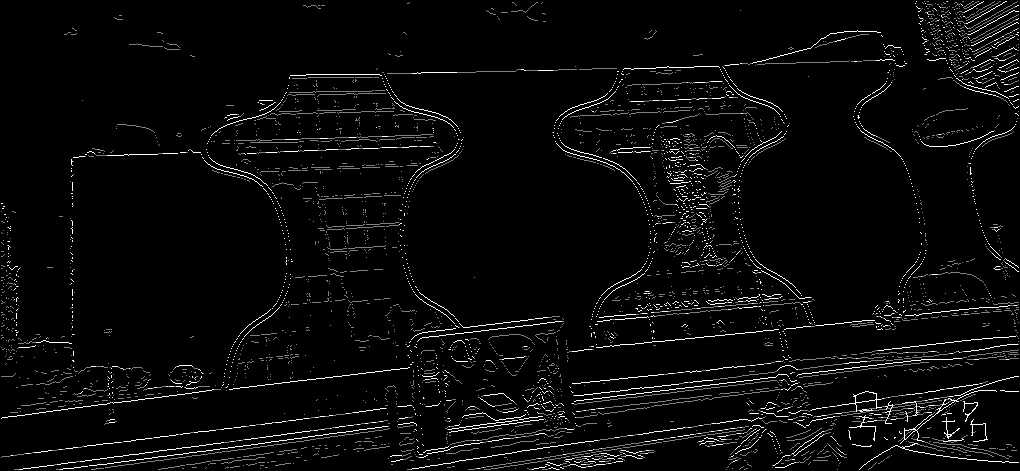
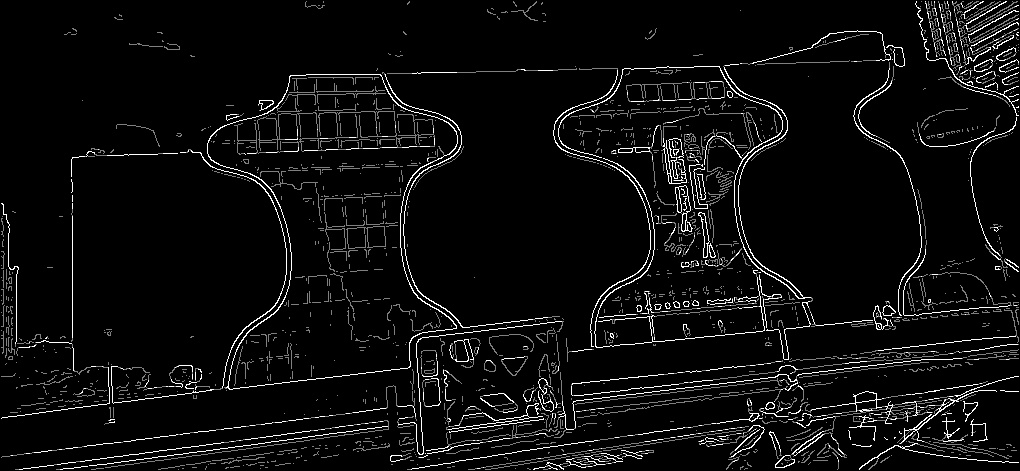
更新HW3

diff --git a/HW3/HW3.py b/HW3/HW3.py
@@ -103,25 +103,25 @@ def gussenfilter(img, size):
     return img
 
 def compute_gradient(img, size=3):
-    x= cv2.Sobel(img, cv2.CV_64F ,1, 0, ksize=size)
-    y= cv2.Sobel(img, cv2.CV_64F, 0, 1, ksize=size)
-    grad = np.sqrt(x**2 +y **2)
-    angle = np.arctan(y, x)
+    x= cv2.Sobel(img,cv2.CV_64F, 1, 0, ksize=size)
+    y= cv2.Sobel(img,cv2.CV_64F, 0, 1, ksize=size)
+    grad = np.sqrt(np.power(x,2) + np.power(y,2))
+    angle = np.arctan2(y, x)
     return grad, angle
 
 def non_max(grad, angle):
     result = np.zeros(grad.shape,dtype="int32")
     for i in range(1, grad.shape[0]-1):
         for j in range(1, grad.shape[1]-1):
-            if angle[i, j] < 0:
-                angle[i, j] += np.pi
+            if(angle[ i ,j]< 0):
+                angle[i ,j] += np.pi
             if (angle[i, j] >= 7/8*np.pi or angle[i, j] < 1/8*np.pi):
                 if grad[i, j] > grad[i, j+1] and grad[i, j] > grad[i, j-1]:
                     result[i, j] = grad[i, j]
                 else:
                     result[i, j] = 0
             elif (angle[i, j] >= 1/8*np.pi and angle[i, j] < 3/8*np.pi):
-                if grad[i, j] > grad[i-1, j+1] and grad[i, j] > grad[i+1, j-1]:
+                if grad[i, j] > grad[i-1, j-1] and grad[i, j] > grad[i+1, j+1]:
                     result[i, j] = grad[i, j]
                 else:
                     result[i, j] = 0
@@ -131,7 +131,7 @@ def non_max(grad, angle):
                 else:
                     result[i, j] = 0
             else:
-                if grad[i, j] > grad[i-1, j-1] and grad[i, j] > grad[i+1, j+1]:
+                if grad[i, j] > grad[i-1, j+1] and grad[i, j] > grad[i+1, j-1]:
                     result[i, j] = grad[i, j]
                 else:
                     result[i, j] = 0
@@ -266,7 +266,7 @@ def signcolor(input, sign_img):
                     input[h - 100 + i][w - 200 + j][k] = 0
     return input
 if __name__ == "__main__":
-    parameter=[[50, 150, 80],[50, 150, 50],[60, 120, 60]]#參數(low,higt,threshold)
+    parameter=[[50, 150, 70],[50, 150, 80],[50, 150, 85]]#參數(low,higt,threshold)
     signimg = cv2.imread("sign.jpg", cv2.IMREAD_GRAYSCALE)
     for i in range(0, 3):
         img = cv2.imread(f"im{i+1}.jpg") #讀取圖片
